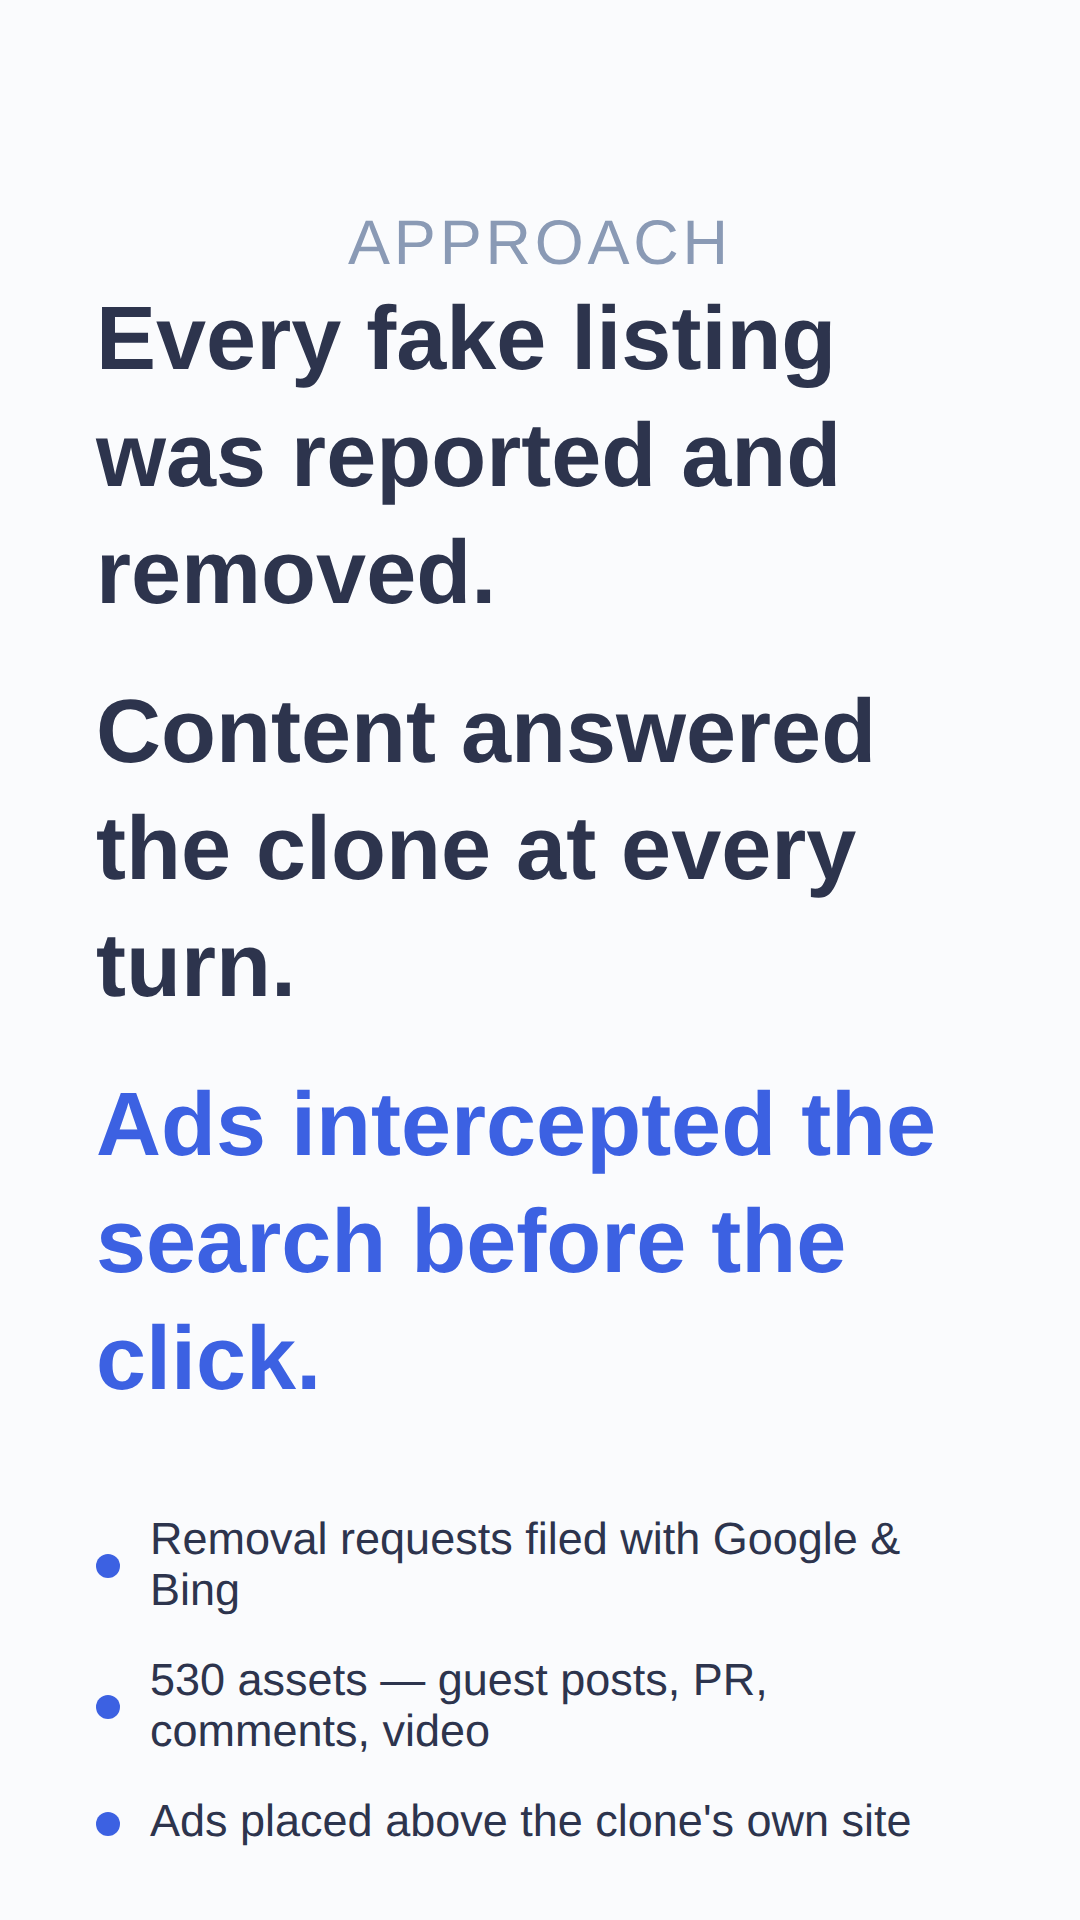
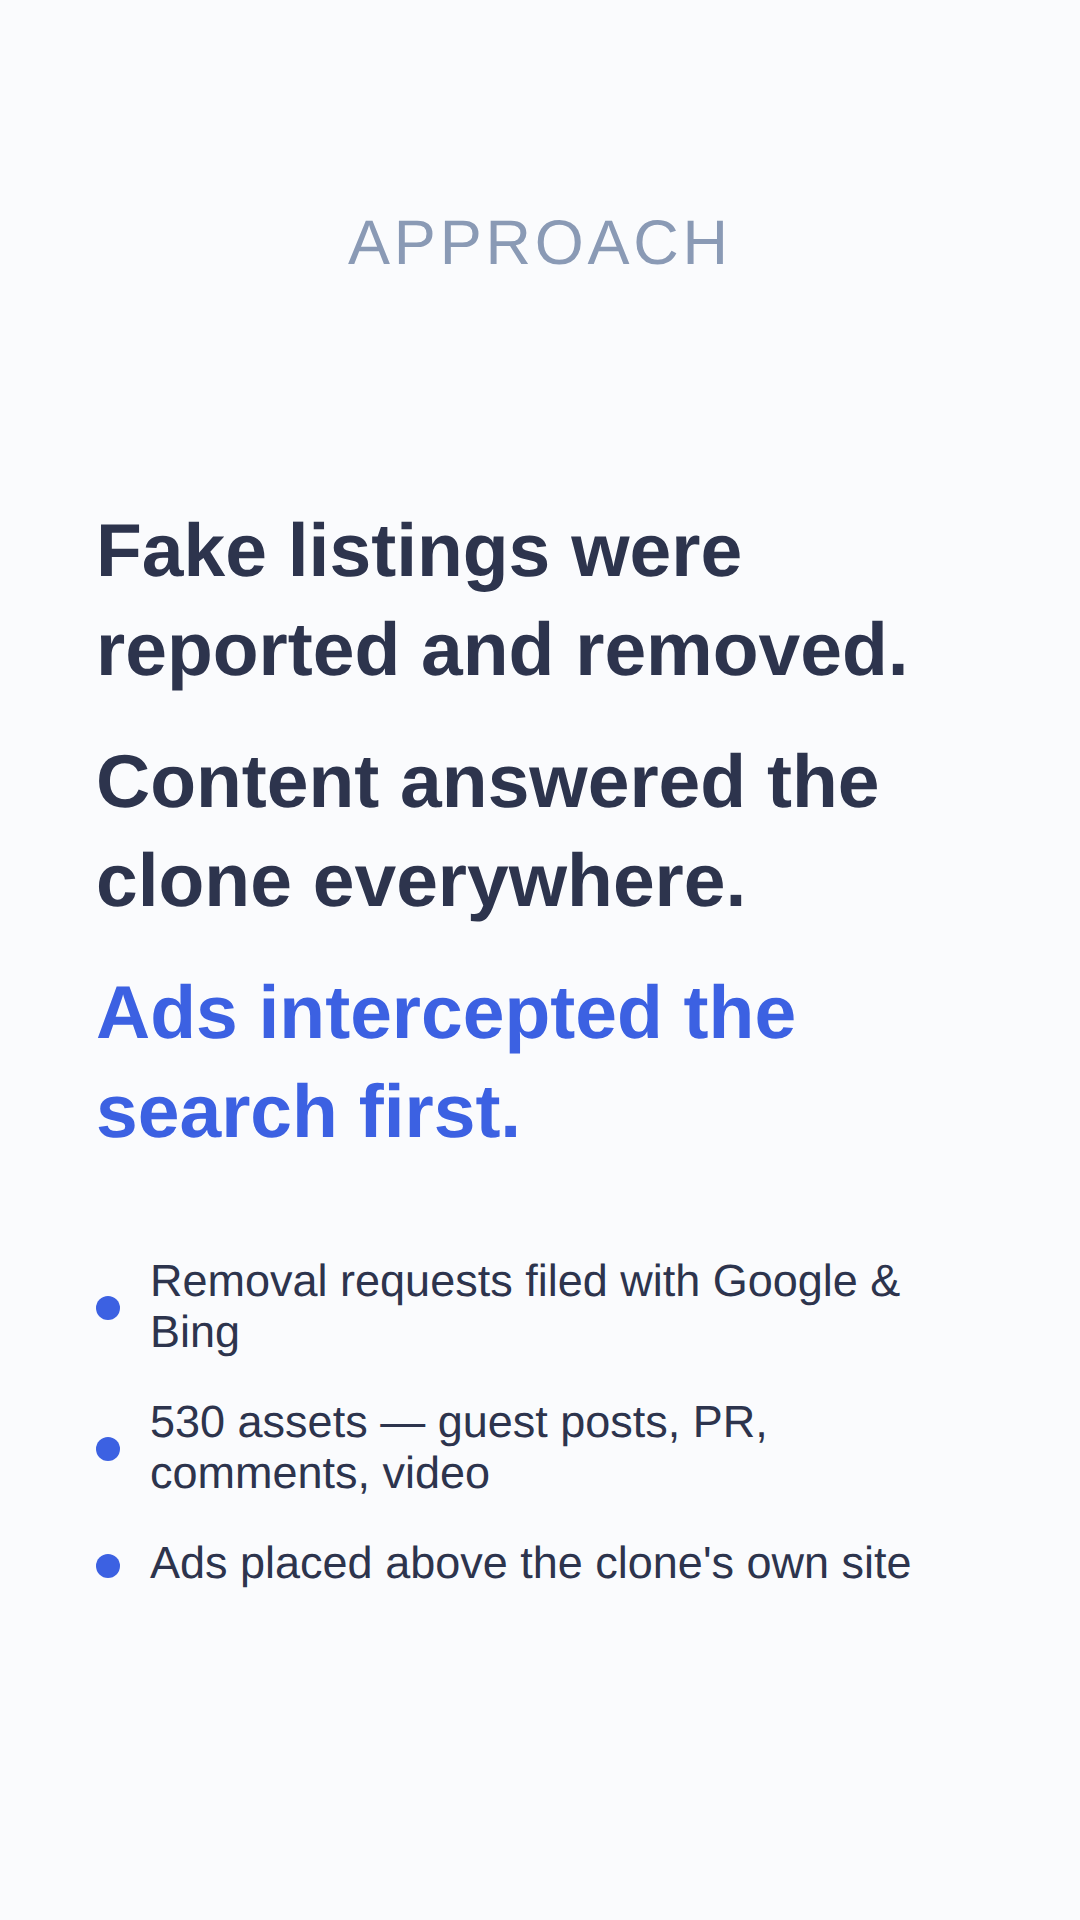
Shrink and trim slide 2 headlines on brand-parasite deck

diff --git a/tg-stories/tg-stories-brand-parasite.html b/tg-stories/tg-stories-brand-parasite.html
@@ -43,9 +43,9 @@ body {
 <div class="slide" style="padding-top:70px;">
   <div style="text-align:center;font-size:21px;font-weight:400;color:#8A9AB5;letter-spacing:0.06em;text-transform:uppercase;margin-bottom:auto;">Approach</div>
   <div style="flex:1;display:flex;flex-direction:column;justify-content:center;">
-    <div style="font-size:30px;font-weight:700;color:#2D344D;line-height:1.3;">Every fake listing was reported and removed.</div>
-    <div style="font-size:30px;font-weight:700;color:#2D344D;line-height:1.3;margin-top:14px;">Content answered the clone at every turn.</div>
-    <div style="font-size:30px;font-weight:700;color:#3C61E2;line-height:1.3;margin-top:14px;">Ads intercepted the search before the click.</div>
+    <div style="font-size:25px;font-weight:700;color:#2D344D;line-height:1.3;">Fake listings were reported and removed.</div>
+    <div style="font-size:25px;font-weight:700;color:#2D344D;line-height:1.3;margin-top:12px;">Content answered the clone everywhere.</div>
+    <div style="font-size:25px;font-weight:700;color:#3C61E2;line-height:1.3;margin-top:12px;">Ads intercepted the search first.</div>
 
     <div style="margin-top:32px;display:flex;flex-direction:column;gap:13px;">
       <div style="display:flex;align-items:center;gap:10px;">
